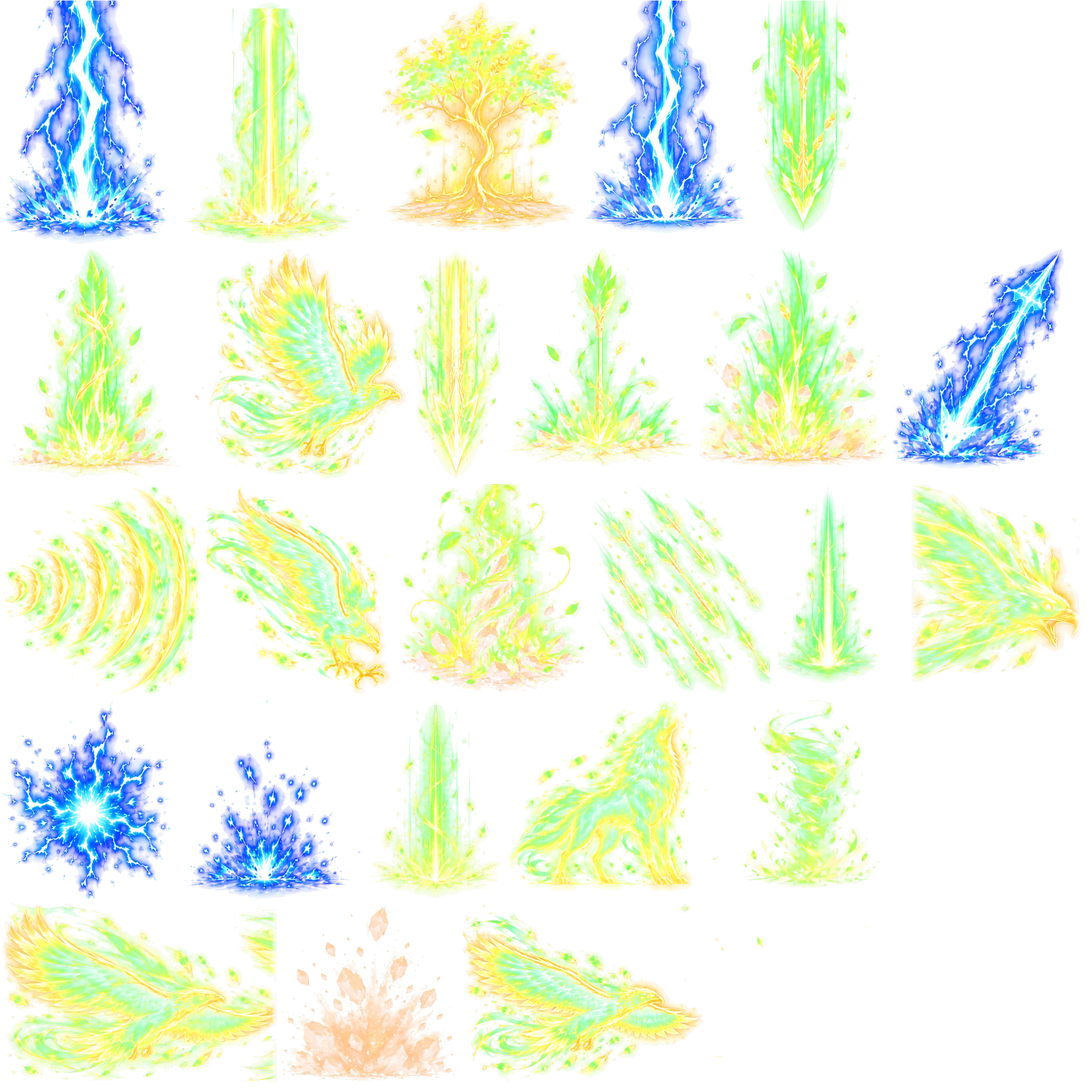
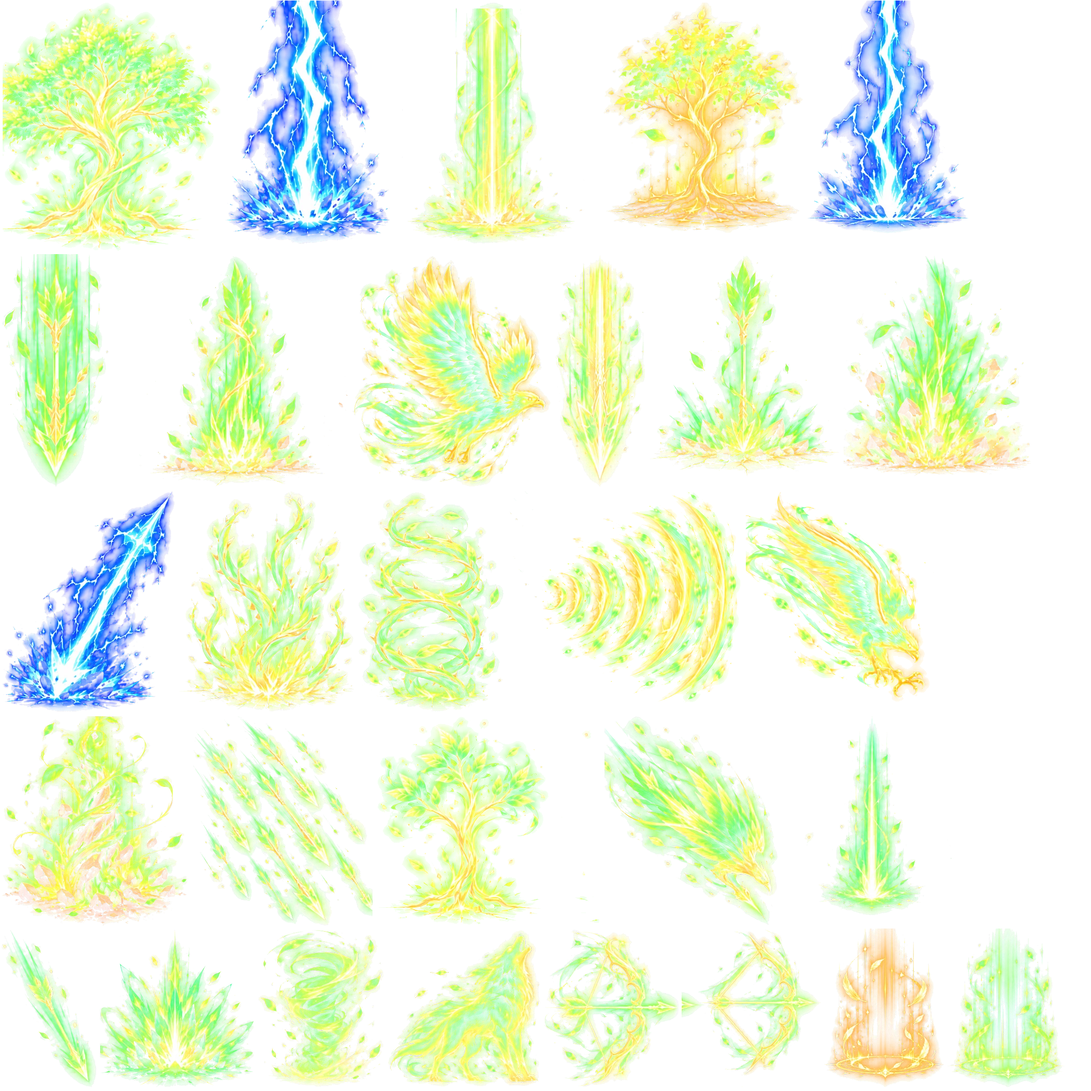
Archer: fifth painted sheet — Tree of Life grows from sprout to sapling to the great tree over a ring of leaves; Vine Mine erupts in a cluster of thorny vines with a spiral winding up; the spirit hawk dives in its new strike pose
Claude-Session: https://claude.ai/code/session_01VyjNmvWjWSa1nwJcopXfn1

diff --git a/src/skills/ArcherFx.ts b/src/skills/ArcherFx.ts
@@ -411,15 +411,20 @@ export class ArcherFx {
   }
 
   private tree(r: CastRun): void {
-    const T = r.timings, o = r.origin, life = 20000, tx = o.x, ty = o.y - 46;
+    const T = r.timings, o = r.origin, life = 20000, tx = o.x, ty = o.y - 46, grow = T.startup + 250;
     this.later(T.startup * 0.2, () => this.spr({ name: 'pillar', x: tx, y: ty + 8, oy: 0.97, depth: ty, w: 160, h: 520, add: true, life: 700, sy: kf([0, 0.2], [0.3, 1, out3]), a: kf([0, 0.9], [1, 0, inQ]) }));
     this.floor('root_tangle', tx, ty + 6, 260, T.startup + life, { s: kf([0, 0.2], [0.03, 1, out3]), a: kf([0, 0], [0.02, 0.9], [0.97, 0.9], [1, 0]) });
+    this.floor('leaf_ring', tx, ty + 6, 300, T.startup + life, { add: true, s: kf([0, 0.3], [0.03, 1, out3]), a: (u) => kf([0, 0], [0.02, 0.7], [0.97, 0.7], [1, 0])(u) * (0.8 + 0.2 * Math.sin(u * 160)) });
+    // it grows before your eyes: sprout, sapling, young tree, then the great tree
+    const stages: [string, number, number, number][] = [['tree_1', 0, 0.3, 150], ['tree_2', 0.22, 0.55, 230], ['tree_3', 0.47, 0.85, 330]];
+    for (const [nm, t0, t1, w] of stages) this.spr({ name: nm, x: tx, y: ty + 8, oy: 0.97, depth: ty - 1, w, delay: grow * t0, life: grow * (t1 - t0), glow: 0.2, sy: kf([0, 0.7], [0.4, 1, out3]), a: kf([0, 0], [0.2, 1], [0.75, 1], [1, 0]) });
     const base = kf([0, 0], [0.01, 1], [0.94, 1], [1, 0]);
     let im: Phaser.GameObjects.Image | null = null;
-    const tree = im = this.spr({ name: 'tree_light', x: tx, y: ty + 8, oy: 0.97, depth: ty - 1, w: 400, life: T.startup + life, add: false, glow: 0.25,
-      sy: kf([0, 0.05], [0.03, 1, out3]), sx: kf([0, 0.3], [0.03, 1, out3]), a: (u) => base(u) * ((im?.getData('fade') as number | undefined) ?? 1) }); // (see-through when someone stands behind it)
+    const tree = im = this.spr({ name: 'tree_4', x: tx, y: ty + 8, oy: 0.97, depth: ty - 1, w: 470, delay: grow * 0.78, life: grow * 0.22 + life, add: false, glow: 0.25,
+      sy: kf([0, 0.75], [0.03, 1.04, out3], [0.05, 1]), sx: kf([0, 0.8], [0.03, 1, out3]), a: (u) => base(u) * ((im?.getData('fade') as number | undefined) ?? 1) }); // (see-through when someone stands behind it)
     if (tree) { this.trees.add(tree); tree.once('destroy', () => this.trees.delete(tree)); }
     this.later(T.startup, () => { this.floor('shock_ring', tx, ty, 200, 500, { add: true, s: kf([0, 0.4], [1, 1.3, out3]), a: kf([0, 1], [1, 0]) }); this.pop('sparkles', tx, ty - 200, 220, { life: 900 }); this.leaves(tx, ty - 260, 16, 140, { life: 1600, up: -40 }); });
+    for (let k = 1; k < 10; k++) this.later(T.startup + k * 2000, () => this.leaves(tx, ty - 280, 3, 150, { life: 1800, up: -30 })); // a leaf drifts down now and then
     this.later(T.startup + life - 900, () => this.leaves(tx, ty - 260, 30, 160, { life: 1600, up: -60 }));
   }
 
@@ -551,13 +556,13 @@ export class ArcherFx {
         h.dive.t += ms;
         const out1 = Math.min(1, h.dive.t / 180), back = Math.max(0, (h.dive.t - 180) / 220);
         face = h.dive.x >= h.px ? 1 : -1; ang = 0;
-        if (back <= 0) { x = h.px + (h.dive.x - h.px) * out1; y = h.py + (h.dive.y - h.py) * out1; frame = 'hawk_dive'; }
+        if (back <= 0) { x = h.px + (h.dive.x - h.px) * out1; y = h.py + (h.dive.y - h.py) * out1; frame = 'hawk_strike'; }
         else { x = h.dive.x + (h.px - h.dive.x) * back; y = h.dive.y + (h.py - h.dive.y) * back; }
         d = h.dive.d + 3;
         if (h.dive.t >= 180 && h.dive.t - ms < 180) this.pop('feather_burst', h.dive.x, h.dive.y, 90, { life: 320 });
         if (back >= 1) h.dive = null;
       }
-      const fr = this.ctx.scene.textures.getFrame(ARCHER_KIT, frame), w = frame === 'hawk_dive' ? 80 : 72;
+      const fr = this.ctx.scene.textures.getFrame(ARCHER_KIT, frame), w = frame === 'hawk_strike' ? 110 : 72;
       h.im.setFrame(frame).setDisplaySize(w, (w * fr.height) / fr.width).setPosition(x, y).setFlipX(face < 0).setAngle(ang).setDepth(d);
     }
   }
@@ -587,7 +592,10 @@ export class ArcherFx {
     if (!fired || !this.ready) return;
     // the mine bursts: a column of vines and green light throws everyone in it high (no stain left behind)
     this.spr({ name: 'vine_column', x: t.x, y: t.y + 8, oy: 0.96, depth: t.y + 3, w: 200, h: 420, life: 720, add: false, glow: 0.3, sy: kf([0, 0.15], [0.22, 1.08, out3], [1, 1]), a: kf([0, 1], [0.7, 1], [1, 0, inQ]) }); // a tall column of vines
-    this.spr({ name: 'launch_beam', x: t.x, y: t.y + 4, oy: 0.97, depth: t.y + 4, w: 150, h: 520, life: 520, add: true, glow: 0.4, sy: kf([0, 0.2], [0.25, 1.1, out3]), a: kf([0, 1], [1, 0, inQ]) });
+    this.spr({ name: 'vine_burst', x: t.x, y: t.y + 8, oy: 0.97, depth: t.y + 4, w: 260, life: 760, glow: 0.3, sy: kf([0, 0.1], [0.2, 1.1, out3], [1, 1.05]), sx: kf([0, 0.6], [0.2, 1, out3]), a: kf([0, 1], [0.7, 1], [1, 0, inQ]) });
+    this.spr({ name: 'vine_spiral', x: t.x, y: t.y + 8, oy: 0.97, depth: t.y + 4.5, w: 170, life: 700, delay: 60, glow: 0.25, sy: kf([0, 0.1], [0.3, 1.15, out3], [1, 1.2]), a: kf([0, 0], [0.1, 1], [0.7, 0.9], [1, 0, inQ]) });
+    this.spr({ name: 'debris', x: t.x, y: t.y + 6, oy: 0.95, depth: t.y + 5, w: 220, life: 640, my: (u) => -30 * out(u), sy: kf([0, 0.4], [0.3, 1.1, out3]), a: kf([0, 1], [0.6, 1], [1, 0, inQ]) });
+    this.floor('crater', t.x, t.y, 230, 1400, { a: kf([0, 0], [0.04, 1], [0.6, 0.85], [1, 0]) });
     this.spr({ name: 'dust', x: t.x, y: t.y + 4, oy: 0.85, depth: t.y + 1, w: 220, life: 700, sx: kf([0, 0.5], [1, 1.4, out3]), a: kf([0, 0.85], [1, 0, inQ]) });
     this.floor('shock_ring', t.x, t.y, 2.4 * t.radius, 420, { add: true, s: kf([0, 0.4], [1, 1.25, out3]), a: kf([0, 1], [1, 0, inQ]) });
     this.leaves(t.x, t.y - 30, 18, 60, { up: 260, life: 1100 });

diff --git a/tools/skills/kit.py b/tools/skills/kit.py
@@ -92,6 +92,7 @@ ARCHER_SHEETS = {
     'a12.png': [('eagle_up', (0, 0, 380, 512), 440), ('eagle_glide', (380, 0, 830, 512), 460), ('eagle_down', (830, 0, 1150, 512), 420), ('feather_trail', (1150, 0, 1536, 512), 440),
                 ('wolf_crouch', (0, 512, 390, 1024), 380), ('wolf_leap', (390, 512, 805, 1024), 420), ('wolf_howl', (805, 512, 1150, 1024), 400), ('roar_wave', (1150, 512, 1536, 1024), 420)],
     'a13.png': grid(4, 2, ['sky_rune', 'volley', 'gold_arrow', 'sky_pillar', 'gold_blast', 'arrow_field', 'sky_clouds', 'gold_ring'], [440, 400, 440, 460, 400, 420, 420, 440]),
+    'a14.png': grid(4, 2, ['tree_1', 'tree_2', 'tree_3', 'tree_4', 'vine_burst', 'vine_spiral', 'hawk_strike', 'leaf_ring'], [300, 380, 440, 480, 420, 420, 400, 420]),
     'a9.png': [('bow', (0, 40, 390, 480), 300, 'box')] + grid(4, 2, [None, 'bow_drawn', 'aura_gold', 'aura_green', 'emblem', 'pillar', 'sparkles', 'rain_ring'], [300, 300, 300, 300, 240, 380, 200, 300]),
 }
 PROFILES = {'samurai': (G + 'tools/skills/gpt/kit/', G + 'public/assets/final/skills/samurai/kit/', None),
